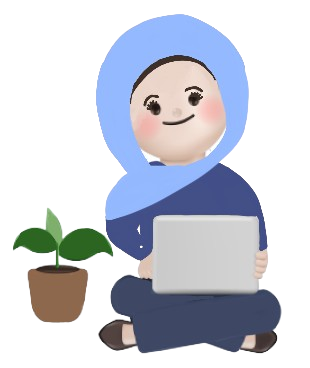
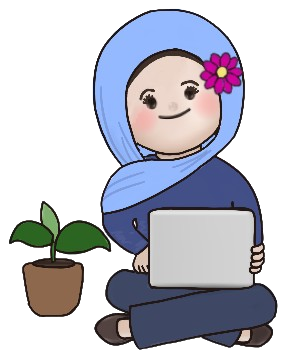
changed hero & about images

Changed region(s): [[0.0279, 0.0, 0.9756, 0.9805]]

diff --git a/src/components/Projects/Projects.module.css b/src/components/Projects/Projects.module.css
@@ -5,6 +5,7 @@
   color: var(--color-text);
   margin-left: 10%;
   margin-right: 10%;
+  width: 80vw;
   /* Remove grid and flex properties */
   /* display: grid; */
   /* grid-auto-flow: dense; */

diff --git a/src/components/Navbar/Navbar.module.css b/src/components/Navbar/Navbar.module.css
@@ -16,7 +16,7 @@
 
 
 .title {
-  font-size: 30px;
+  font-size: 25px;
   font-weight: 600;
   text-decoration: none;
   color: var(--color-text);
